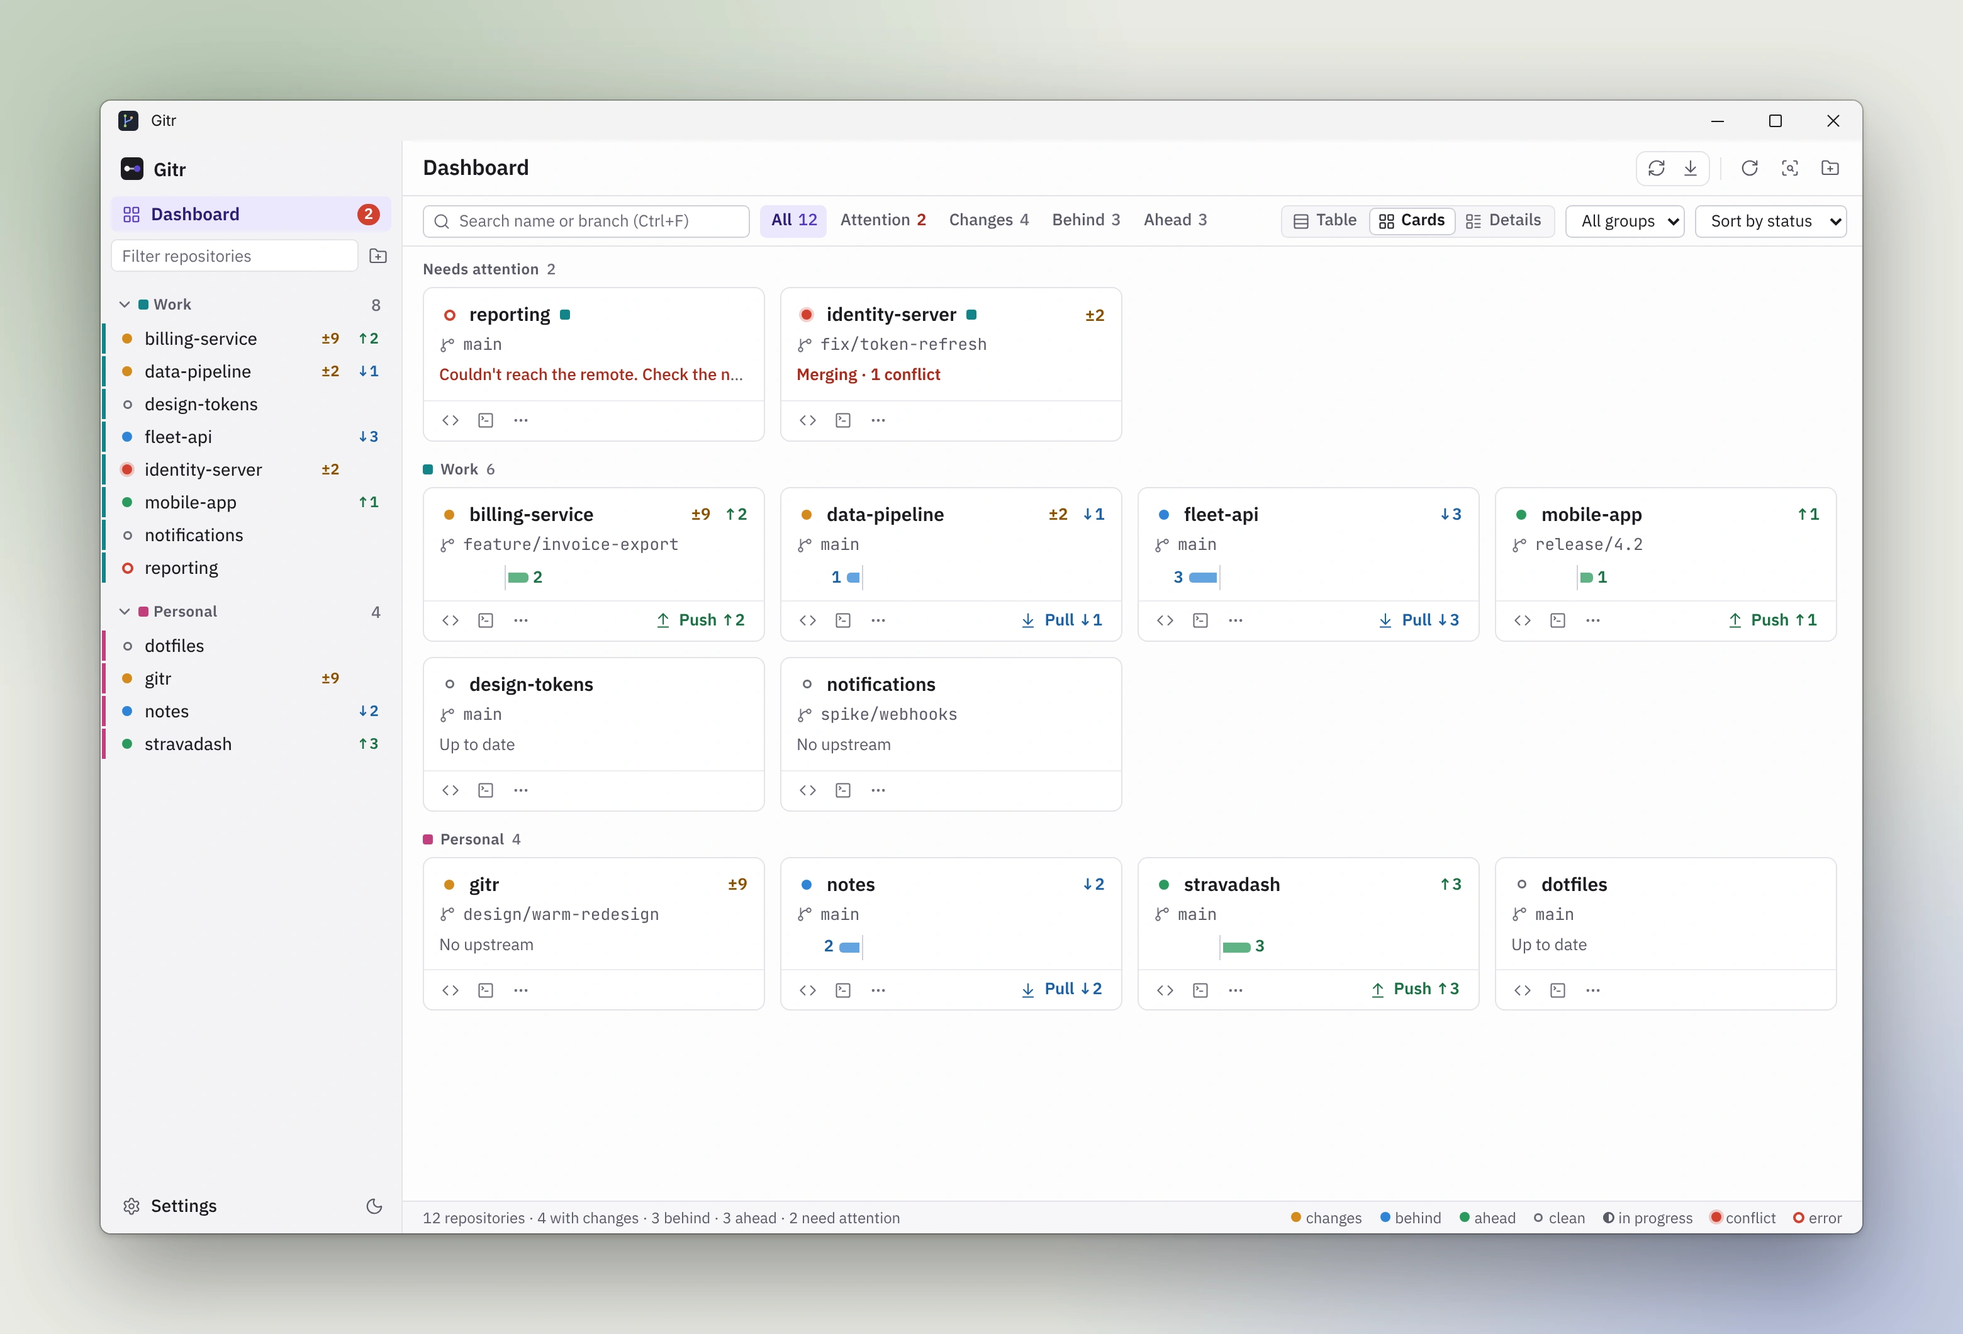
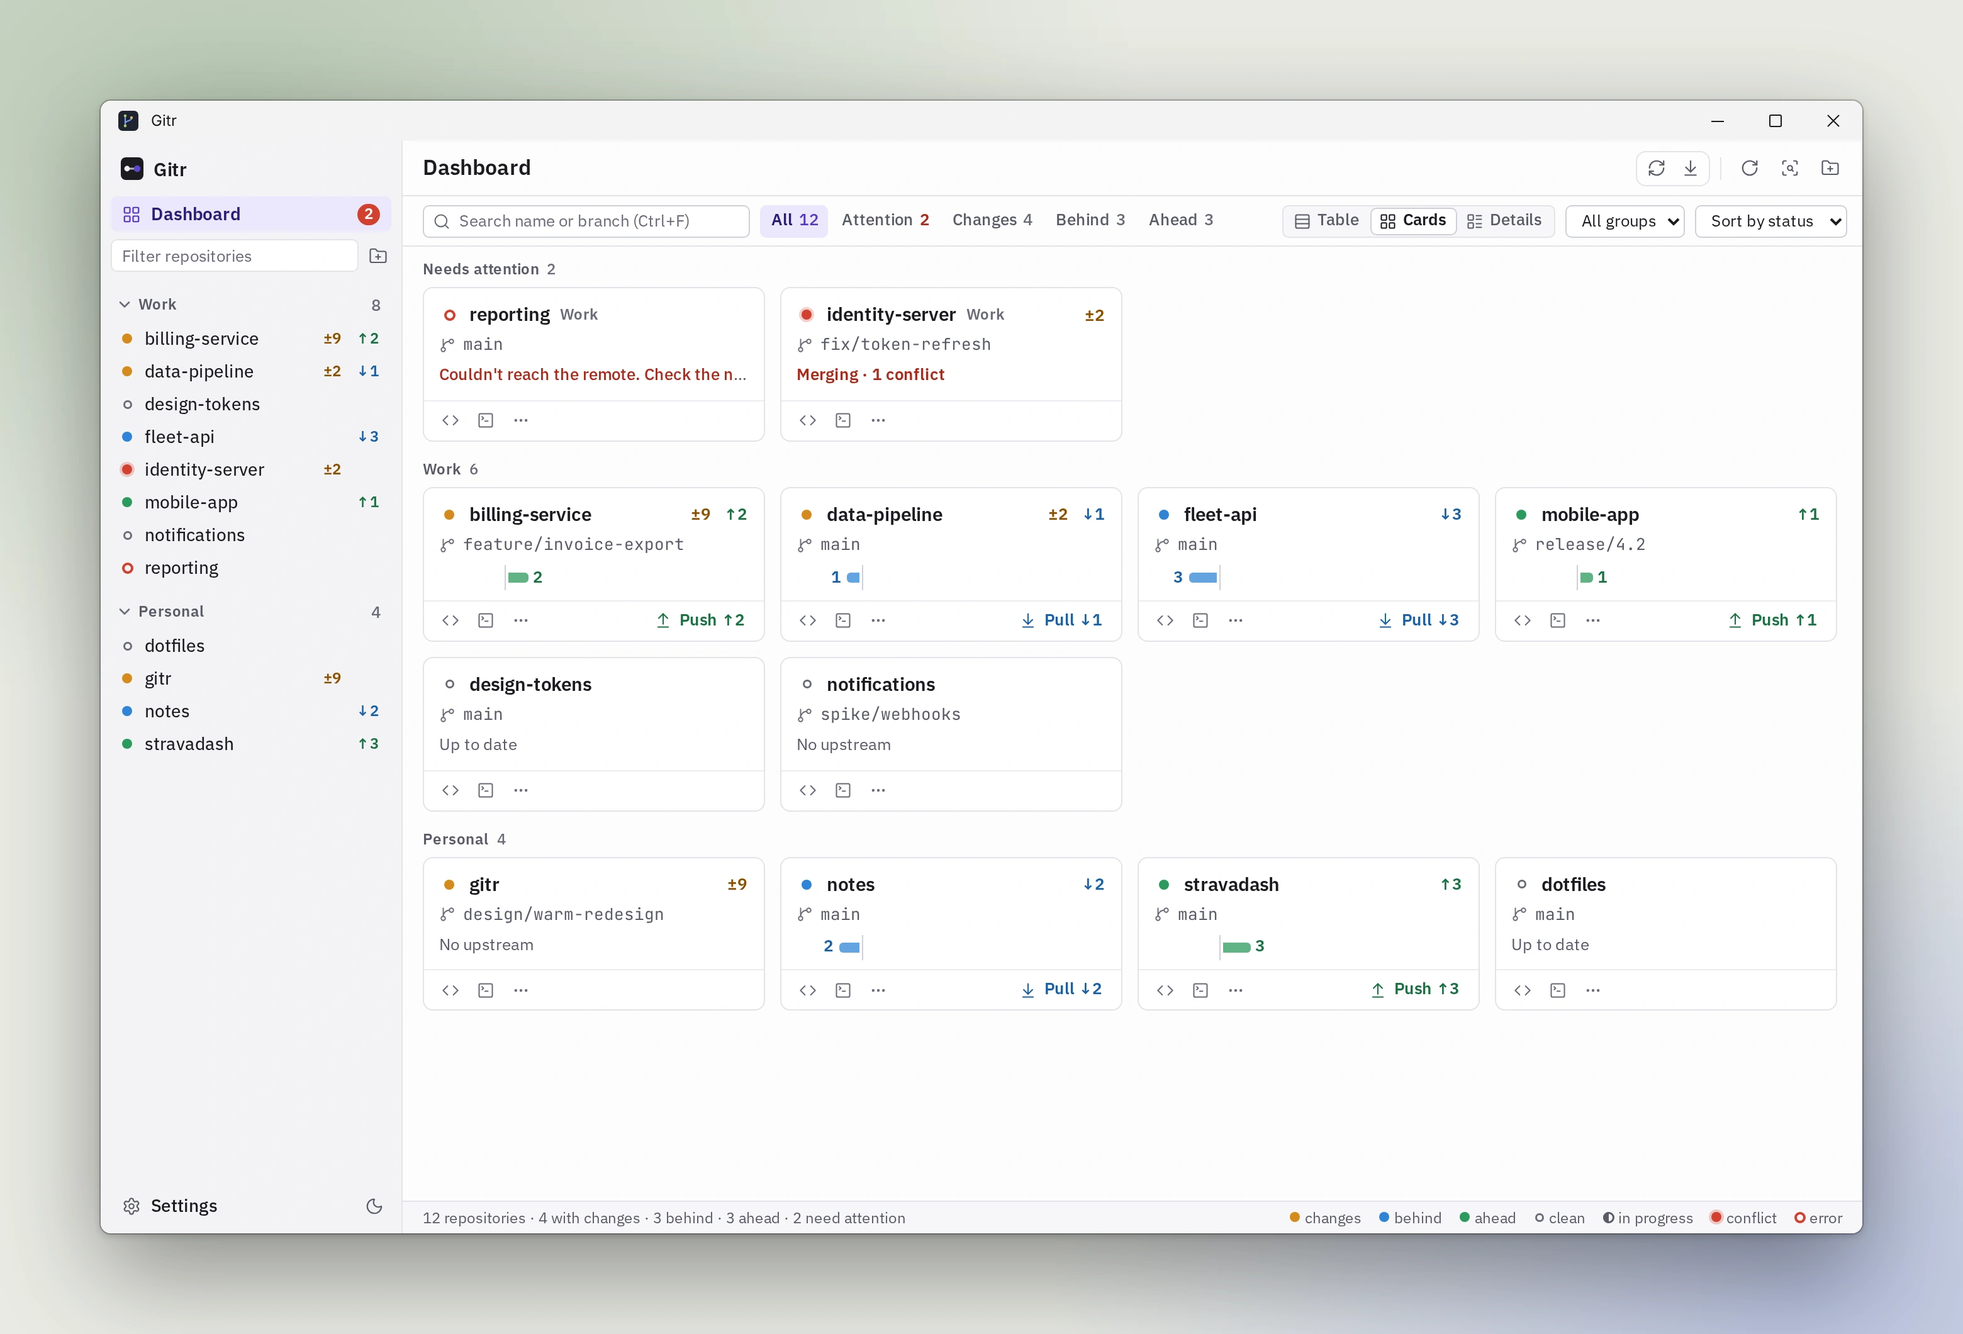
Remove group colours: groups read by their headings
The user asked for the per-group colour stripes and swatches to go
("the matching colors in the side menu ... now I don't like it"). The
sidebar, the dashboard table bands and rows, and the cards no longer draw
a group's colour; a card outside its group's band names the group in
text (compact cards too, where only a swatch said it before). With
nothing drawing the colour, the colour picker in Settings → Workspaces
is removed as well. The saved `color` field, the --g-* tokens (read by
the contrast test) and lib/groupColor stay, so configs round-trip.

Tests changed only because of that request: the dashboard band test now
asserts no stripe or swatch, the card test asserts the group's name, and
the settings test asserts there is no colour choice.

diff --git a/ui/src/components/DashboardCards.tsx b/ui/src/components/DashboardCards.tsx
@@ -3,7 +3,7 @@ import { api } from '../api'
 import { notifyError, useBatch, useBatchRunning } from '../hooks'
 import { useApp, type Fresh } from '../store'
 import { useRepoMenu } from '../repoMenu'
-import { groupStyle, type GroupColor } from '../lib/groupColor'
+import { type GroupColor } from '../lib/groupColor'
 import { absoluteTime, relativeTime } from '../lib/time'
 import { needsAttention, type Row } from '../lib/git'
 import { runPush } from '../lib/send'
@@ -78,8 +78,7 @@ export function DashboardCards({ view, sections, cursor, setCursor, colors, grou
       {sections.map((sec, i) => (
         <section key={sec.key} className="card-section" aria-label={sec.label}>
           {sec.label && (
-            <div className={`card-band ${i === 0 ? 'first' : ''}`} style={groupStyle(sec.color)}>
-              {sec.color && <span className="group-swatch" aria-hidden />}
+            <div className={`card-band ${i === 0 ? 'first' : ''}`}>
               {sec.label}
               <span className="band-count">{sec.count}</span>
             </div>
@@ -93,7 +92,6 @@ export function DashboardCards({ view, sections, cursor, setCursor, colors, grou
                 cursor={row.repo.path === cursor}
                 setCursor={setCursor}
                 // Under its group's own heading a card doesn't repeat the group.
-                color={sec.color ? undefined : colors?.get(row.repo.groupId)}
                 groupName={colors && !sec.color ? groupNames.get(row.repo.groupId) : undefined}
               />
             ))}
@@ -109,14 +107,12 @@ function RepoCard({
   row,
   cursor,
   setCursor,
-  color,
   groupName,
 }: {
   view: Props['view']
   row: Row
   cursor: boolean
   setCursor: (path: string) => void
-  color: GroupColor | undefined
   groupName: string | undefined
 }) {
   const { repo, summary: s } = row
@@ -219,7 +215,6 @@ function RepoCard({
       data-path={repo.path}
       aria-label={repo.name}
       aria-current={cursor ? 'true' : undefined}
-      style={color ? groupStyle(color) : undefined}
       onClick={() => {
         setCursor(repo.path)
         markSeen(repo.path)
@@ -235,13 +230,7 @@ function RepoCard({
           <button className="link repo-link card-name" tabIndex={-1} onClick={open} title={repo.path}>
             {repo.name}
           </button>
-          {view === 'detailed' && groupName && (
-            <span className="card-group">
-              <span className="group-swatch" aria-hidden />
-              {groupName}
-            </span>
-          )}
-          {view === 'compact' && color && <span className="group-swatch" title={groupName} aria-hidden />}
+          {groupName && <span className="card-group">{groupName}</span>}
           <span className="card-counts">
             {view === 'compact' && <CountChips summary={s} />}
             {fresh && !fresh.seen && (

diff --git a/ui/src/components/Dashboard.tsx b/ui/src/components/Dashboard.tsx
@@ -24,7 +24,7 @@ import { plainInput } from '../lib/inputProps'
 import { useAddFolder } from '../lib/addFolder'
 import { SignInBanner } from './SignInBanner'
 import { CountChips, Divergence, StatusMark } from './Marks'
-import { groupColors, groupStyle, type GroupColor } from '../lib/groupColor'
+import { groupColors, type GroupColor } from '../lib/groupColor'
 import { useLayout, type DashboardView } from '../layout'
 import { DashboardCards, cardAbove, type CardSection } from './DashboardCards'
 import { RepoStatusText } from './RepoStatusText'
@@ -88,7 +88,7 @@ export function Dashboard() {
 
   const attention = (r: Row) => needsAttention(r.summary, progress[r.repo.path]?.state === 'error')
 
-  // With more than one group, each repo carries its group's colour as a stripe down its left edge.
+  // With more than one group, the rest are banded by group (told apart by their headings).
   const groups = useMemo(() => config.data?.groups ?? [], [config.data])
   const colors = useMemo(() => groupColors(groups), [groups])
   const colored = groups.length > 1
@@ -451,12 +451,7 @@ export function Dashboard() {
               }
               if (it.kind === 'band') {
                 return (
-                  <div
-                    key={'band:' + it.key}
-                    className={`band ${v.index === 0 ? 'first' : ''}`}
-                    style={{ ...place, ...groupStyle(it.color) }}
-                  >
-                    {it.color && <span className="group-swatch" aria-hidden />}
+                  <div key={'band:' + it.key} className={`band ${v.index === 0 ? 'first' : ''}`} style={place}>
                     {it.label}
                     <span className="band-count">{it.count}</span>
                   </div>
@@ -472,11 +467,10 @@ export function Dashboard() {
                   className={`row ${repo.path === cursor ? 'cursor' : ''} ${attention(it.row) ? 'urgent' : ''}`}
                   aria-current={repo.path === cursor ? 'true' : undefined}
                   onClick={() => setCursor(repo.path)}
-                  style={colored ? { ...place, ...groupStyle(colors.get(repo.groupId)) } : place}
+                  style={place}
                   onDoubleClick={open}
                   onContextMenu={repoMenu(repo.path)}
                 >
-                  {colored && <span className="group-stripe" aria-hidden />}
                   <StatusMark summary={s} />
                   <button className="link repo-link" tabIndex={-1} onClick={open} title={repo.path}>
                     {repo.name}

diff --git a/ui/src/index.css b/ui/src/index.css
@@ -119,7 +119,7 @@
   --red-soft: #fdece9;
   --red-on: #ffffff;
 
-  /* Group colours: hues no state uses, for the group stripe and swatch. */
+  /* Group colours: kept for a group's saved choice; nothing draws them since groups read by name. */
   --g-teal: #13858a;
   --g-rose: #c23f7d;
   --g-ochre: #9a6a2c;
@@ -1411,37 +1411,6 @@ body.resizing-y * {
 .branch-cell {
   color: var(--ink-2);
 }
-/*
- * Group colour: a square swatch on a group's heading and a 3px stripe down the left edge of its
- * rows, in the sidebar and the ledger. Square, so it never reads as a round status mark.
- */
-.group-swatch {
-  flex: none;
-  width: 8px;
-  height: 8px;
-  border-radius: 2px;
-  background: var(--group);
-}
-.group-head .group-swatch {
-  align-self: center;
-}
-.band .group-swatch {
-  margin-bottom: 4px;
-}
-.group-stripe {
-  position: absolute;
-  top: 0;
-  bottom: 0;
-  left: 0;
-  width: 3px;
-  background: var(--group);
-  pointer-events: none;
-}
-/* In the sidebar the stripe runs along the rail's edge, unbroken down the group. */
-.repo-item .group-stripe {
-  left: calc(-1 * var(--s4));
-}
-
 /* Band headings: what needs you, then each group or everything else. */
 .band {
   display: flex;
@@ -3226,44 +3195,6 @@ button.sha-chip .ico {
   max-width: 260px;
   font-weight: 600;
 }
-/* A group's colour: six swatches, a radio group. */
-.swatches {
-  display: flex;
-  gap: var(--s1);
-  border: 0;
-}
-.swatch-pick {
-  position: relative;
-  display: grid;
-  place-items: center;
-  width: 22px;
-  height: 22px;
-  border-radius: var(--r-sm);
-}
-.swatch-pick:hover {
-  background: var(--hover);
-}
-.swatch-pick input {
-  position: absolute;
-  inset: 0;
-  margin: 0;
-  opacity: 0;
-}
-.swatch-pick .swatch {
-  width: 12px;
-  height: 12px;
-  border-radius: 3px;
-  background: var(--group);
-}
-.swatch-pick input:checked + .swatch {
-  box-shadow:
-    0 0 0 2px var(--panel),
-    0 0 0 3.5px var(--group);
-}
-.swatch-pick:has(input:focus-visible) {
-  outline: 2px solid var(--focus);
-  outline-offset: 1px;
-}
 .roots {
   margin: var(--s3) 0 0;
   padding: 0;
@@ -3880,12 +3811,6 @@ dialog::backdrop {
   .repo-item {
     justify-content: center;
     padding: 0;
-  }
-  .repo-item .group-stripe {
-    left: calc(-1 * var(--s3));
-  }
-  .group-head .group-swatch {
-    display: none;
   }
   .repo-item .busy-dot {
     position: absolute;

diff --git a/ui/src/components/Sidebar.tsx b/ui/src/components/Sidebar.tsx
@@ -9,7 +9,6 @@ import { CountChips, StatusMark } from './Marks'
 import { needsAttention } from '../lib/git'
 import { useAddFolder } from '../lib/addFolder'
 import { groupMenu } from '../lib/menus'
-import { groupColors, groupStyle } from '../lib/groupColor'
 import { showMenu } from '../nativeMenu'
 import { saveThemePref, useTheme } from '../theme'
 
@@ -46,11 +45,6 @@ export function Sidebar() {
       }))
       .filter((g) => !q || g.repos.length > 0)
   }, [config.data, repos.data, filter])
-  // With more than one group, each carries its colour: a swatch on its heading and a stripe down
-  // its repos, matching the stripes on the dashboard.
-  const colors = useMemo(() => groupColors(config.data?.groups ?? []), [config.data])
-  const colored = (config.data?.groups.length ?? 0) > 1
-
   // The tree is one Tab stop; arrow keys move within it (like a Windows tree view). The stop is the
   // item last focused, else the open repo, else the first group.
   const treeRef = useRef<HTMLDivElement>(null)
@@ -148,7 +142,7 @@ export function Sidebar() {
           </div>
         )}
         {groups.map((g) => (
-          <div key={g.id} className="group" style={colored ? groupStyle(colors.get(g.id)) : undefined}>
+          <div key={g.id} className="group">
             <button
               className="group-head"
               data-key={'g:' + g.id}
@@ -169,7 +163,6 @@ export function Sidebar() {
               ) : (
                 <ChevronDown className="chevron" aria-hidden />
               )}
-              {colored && <span className="group-swatch" aria-hidden />}
               <span className="group-name">{g.name}</span>
               <span className="count">{g.repos.length}</span>
             </button>
@@ -189,7 +182,6 @@ export function Sidebar() {
                     onContextMenu={repoMenu(r.path)}
                     title={`${r.name}\n${r.path}`}
                   >
-                    {colored && <span className="group-stripe" aria-hidden />}
                     <StatusMark summary={s} />
                     <span className="repo-name">{r.name}</span>
                     <BusyDot path={r.path} />

diff --git a/ui/src/components/Settings.tsx b/ui/src/components/Settings.tsx
@@ -9,7 +9,7 @@ import type { Config, Group } from '../types'
 import { plainInput } from '../lib/inputProps'
 import { saveThemePref, useTheme, type ThemePref } from '../theme'
 import { folderName, pickFolder } from '../lib/addFolder'
-import { GROUP_COLORS, groupColors, groupStyle, nextGroupColor } from '../lib/groupColor'
+import { nextGroupColor } from '../lib/groupColor'
 
 const SECTIONS = [
   { id: 'workspaces', label: 'Workspaces' },
@@ -199,7 +199,6 @@ function SettingsForm({ saved }: { saved: Config }) {
     if (dir && !g.roots.includes(dir)) updateGroup(g.id, { roots: [...g.roots, dir] })
   }
 
-  const colors = groupColors(draft.groups)
   const dirty = JSON.stringify({ ...draft, zoom: 0 }) !== JSON.stringify({ ...saved, zoom: 0 })
   const unnamed = draft.groups.some((g) => !g.name.trim())
 
@@ -282,21 +281,6 @@ function SettingsForm({ saved }: { saved: Config }) {
                     value={g.name}
                     onChange={(e) => updateGroup(g.id, { name: e.target.value })}
                   />
-                  <div className="swatches" role="radiogroup" aria-label={`Colour of ${g.name || 'this group'}`}>
-                    {GROUP_COLORS.map((c) => (
-                      <label key={c} className="swatch-pick" title={c.charAt(0).toUpperCase() + c.slice(1)}>
-                        <input
-                          type="radio"
-                          name={`color-${g.id}`}
-                          value={c}
-                          aria-label={c}
-                          checked={colors.get(g.id) === c}
-                          onChange={() => updateGroup(g.id, { color: c })}
-                        />
-                        <span className="swatch" style={groupStyle(c)} aria-hidden />
-                      </label>
-                    ))}
-                  </div>
                   <div className="spacer" />
                   <button className="small" onClick={() => addRoot(g)}>
                     <FolderPlus className="ico" aria-hidden />

diff --git a/ui/src/dashboard.test.tsx b/ui/src/dashboard.test.tsx
@@ -110,7 +110,7 @@ describe('dashboard', () => {
     expect(order).toEqual(['Needs attention1', 'beta', 'Everything else2', 'gamma', 'alpha'])
   })
 
-  it('bands the rest by group, with each repo striped in its group colour, when all groups show', async () => {
+  it('bands the rest by group, told apart by their headings and never by colour, when all groups show', async () => {
     config.groups.push({ id: 'p', name: 'Personal', roots: ['D:/p'] })
     repos.push({ path: 'D:/p/delta', name: 'delta', groupId: 'p' })
     try {
@@ -127,8 +127,8 @@ describe('dashboard', () => {
       const order = () => [...body().querySelectorAll('.band, .row .repo-link')].map((el) => el.textContent)
       expect(order()).toEqual(['Needs attention1', 'beta', 'Work2', 'gamma', 'alpha', 'Personal1', 'delta'])
       const stripe = (name: string) => screen.getByText(name).closest<HTMLElement>('.row')!.style.getPropertyValue('--group')
-      expect([stripe('beta'), stripe('gamma'), stripe('delta')]).toEqual(['var(--g-teal)', 'var(--g-teal)', 'var(--g-rose)'])
-      expect(body().querySelectorAll('.row .group-stripe')).toHaveLength(4)
+      expect([stripe('beta'), stripe('gamma'), stripe('delta')]).toEqual(['', '', ''])
+      expect(body().querySelectorAll('.group-stripe, .group-swatch')).toHaveLength(0)
 
       // One group chosen: back to attention, then everything else.
       act(() => useApp.getState().setDashboard({ group: 'g' }))

diff --git a/ui/src/settingsForm.test.tsx b/ui/src/settingsForm.test.tsx
@@ -113,15 +113,11 @@ describe('settings form', () => {
     expect(screen.getByText('Name every group before saving.')).toBeInTheDocument()
   })
 
-  it("shows a group's colour and saves the one you pick", async () => {
+  it('offers no group colour, since groups are told apart by name', async () => {
     useApp.setState({ settingsDraft: null })
     mount(newClient())
-    const teal = await screen.findByRole('radio', { name: 'teal' })
-    expect(teal).toBeChecked()
-    fireEvent.click(screen.getByRole('radio', { name: 'plum' }))
-    expect(screen.getByRole('radio', { name: 'plum' })).toBeChecked()
-    expect(screen.getByRole('button', { name: 'Save' })).toBeEnabled()
-    await act(async () => fireEvent.click(screen.getByRole('button', { name: 'Save' })))
-    expect(vi.mocked(api.saveConfig).mock.calls[0][0].groups[0].color).toBe('plum')
+    await screen.findByLabelText('Group name')
+    expect(screen.queryByRole('radiogroup')).toBeNull()
+    expect(screen.queryByRole('radio', { name: 'teal' })).toBeNull()
   })
 })

diff --git a/ui/src/dashboardCards.test.tsx b/ui/src/dashboardCards.test.tsx
@@ -262,10 +262,11 @@ describe('dashboard cards', () => {
       expect(card('alpha').querySelector('.card-group')).toHaveTextContent('Work')
       expect(card('beta').querySelector('.card-group')).toBeNull()
       expect(card('delta').querySelector('.card-group')).toBeNull()
-      // Compact cards show only the swatch, on the same terms.
+      // Compact cards name it on the same terms (groups are told apart by name, not colour).
       fireEvent.click(screen.getByRole('button', { name: 'Cards' }))
-      expect(card('alpha').querySelector('.group-swatch')).not.toBeNull()
-      expect(card('beta').querySelector('.group-swatch')).toBeNull()
+      expect(card('alpha').querySelector('.card-group')).toHaveTextContent('Work')
+      expect(card('beta').querySelector('.card-group')).toBeNull()
+      expect(card('alpha').querySelector('.group-swatch')).toBeNull()
     } finally {
       config.groups.pop()
       repos.pop()

diff --git a/CHANGELOG.md b/CHANGELOG.md
@@ -9,6 +9,9 @@ The format follows [Keep a Changelog](https://keepachangelog.com/en/1.1.0/).
 - **Dashboard cards.** The dashboard now shows each repository as a card by default. The table is still there: a **Table / Cards / Details** switch next to the group and sort menus changes between the table, compact cards and detailed cards, and Gitr remembers your choice. Cards show the branch, counts, behind and ahead, and the status, with **Pull** when commits are waiting and **Push** when you have commits to send. If a hook rejects a push, the message offers to show the hook's output. Detailed cards also show the remote, the upstream branch, staged and unstaged files, and the last commit's subject and age.
 - **New changes stand out.** When a repository gets new changes, incoming or outgoing commits, or an error, its card briefly lights up in that colour and a small dot stays beside its counts until you hover over or open it. With animations turned off in Windows, only the dot shows.
 
+### Changed
+- **Groups no longer have colours.** The coloured stripes and squares beside workspace groups in the sidebar, the dashboard table and the cards are gone, and so is the colour choice in **Settings → Workspaces**. Groups are told apart by their headings and the space between them; a card outside its group's heading names the group instead.
+
 ### Security
 - **Safer connections.** Updated the TLS library Gitr uses for updates and AI requests (rustls 0.23.46, rustls-webpki 0.103.16, webpki-root-certs 1.0.10). The fixes stop a forged server reply from weakening later connections, close a way for certificates from distrusted authorities to be accepted, and remove distrusted root certificates.
 
